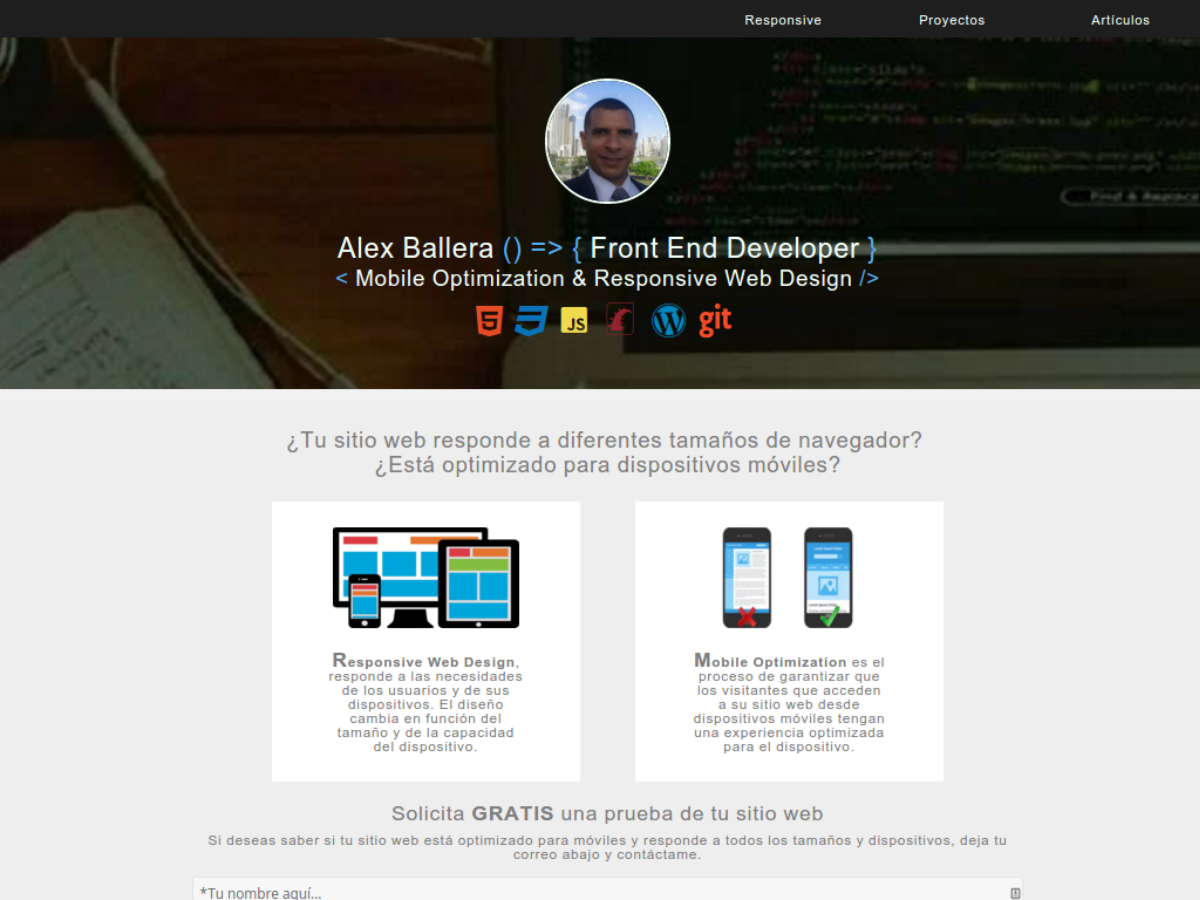
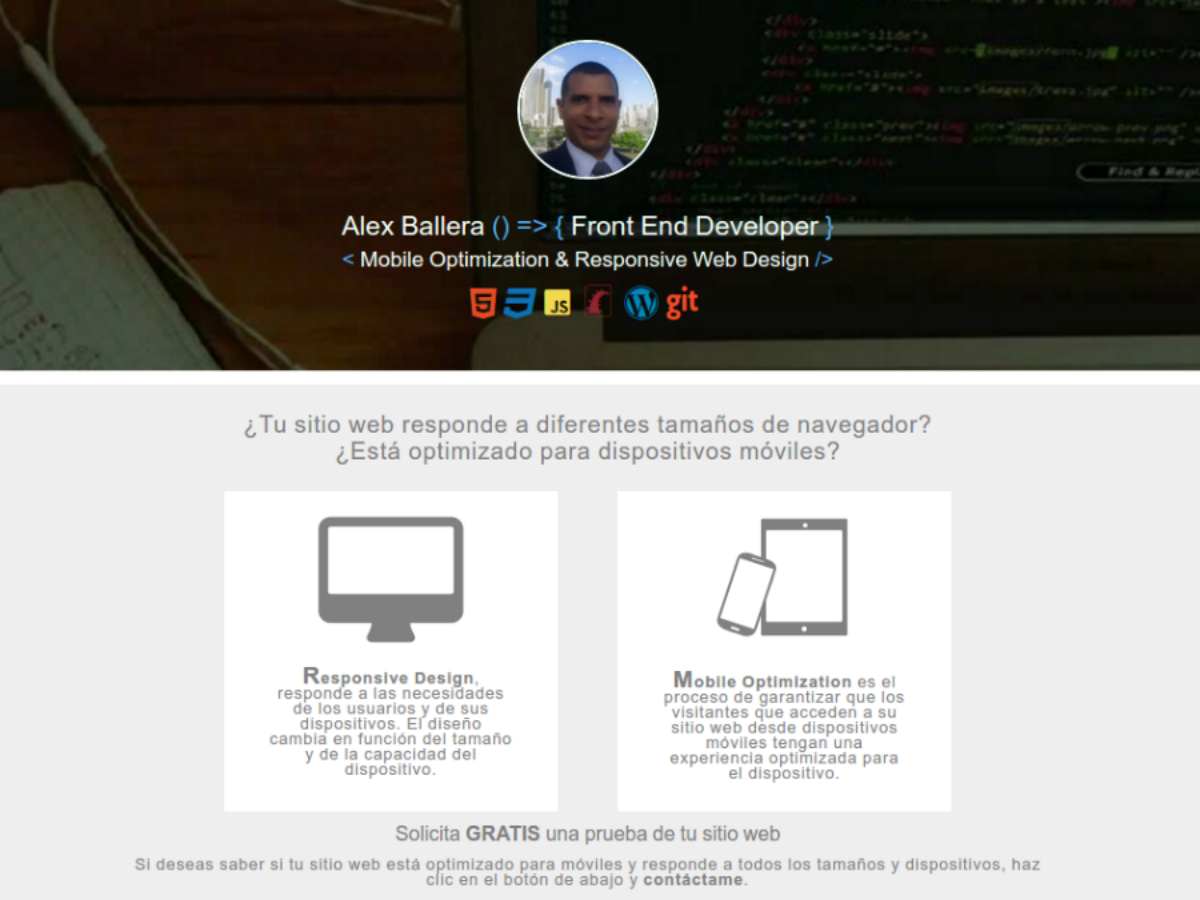
Optimizado tema

diff --git a/gulpfile.js b/gulpfile.js
@@ -140,8 +140,12 @@ gulp.task('clean', (cb) => {
 
 // Copy
 gulp.task('copy', () => {
-  gulp.src(globs.fonts.src + '/**/*.*')
-    .pipe(gulp.dest(globs.fonts.dist))
+  // gulp.src(globs.fonts.src + '/**/*.*')
+  //   .pipe(gulp.dest(globs.fonts.dist))
+  gulp.src(globs.fonts.src + '/fonts-mfizz/**/*.*')
+    .pipe(gulp.dest(globs.fonts.dist + '/fonts-mfizz'))
+  gulp.src(globs.fonts.src + '/fontawesome/**/*.*') // Comentar si se va a usar el cdnjs
+    .pipe(gulp.dest(globs.fonts.dist + '/fontawesome')) // Comentar si se va a usar el cdnjs
   gulp.src(globs.videos.watch)
     .pipe(gulp.dest(globs.videos.dist))
 })

diff --git a/src/styles/scss/partials/_articles.scss b/src/styles/scss/partials/_articles.scss
@@ -65,6 +65,7 @@
                 font-size: 75%;
                 color: grey;
                 margin: 0.5rem;
+                font-family: $font-awesome;
             }
         }
     }

diff --git a/src/styles/scss/partials/_responsive.scss b/src/styles/scss/partials/_responsive.scss
@@ -113,4 +113,5 @@
 .fa.fa-desktop,
 .icon-mobile-device {
   font-size: 10rem;
+  color: grey;
 }

diff --git a/src/front-page.php b/src/front-page.php
@@ -110,7 +110,7 @@
                           <div id="mc_embed_signup" class="form content__responsive--form">
                                 <div class="form__content form__content--purple">
                                   <h2>&#191Te gusta lo que lees? Suscr&#237bete!</h2> 
-                                  <p class="form__content--white">Si quieres recibir de primero mis últimos art&#237culos, s&#243lo tienes que dejar tu nombre y direcci&#243n de correo electr&#243nico <em>aqu&#237</em>.</p>
+                                  <p class="form__content--white">Si quieres recibir de primero mis &#250ltimos art&#237culos, s&#243lo tienes que dejar tu nombre y direcci&#243n de correo electr&#243nico <em>aqu&#237</em>.</p>
                                 </div>
                                 <form action="//alexballera.us8.list-manage.com/subscribe/post?u=8d7312e4347b5791968e24e78&amp;id=d7ed361251" method="post" id="mc-embedded-subscribe-form" name="mc-embedded-subscribe-form" class="validate" target="_blank" novalidate>
                                       <div id="mc_embed_signup_scroll" class="form__email form__purple">

diff --git a/src/footer.php b/src/footer.php
@@ -7,7 +7,7 @@
                 </ul>
             </div>
             <div id="lastArticles" class="footer__content footer__articles">
-                <h3>Últimos art&#237culos</h3>
+                <h3>&#218ltimos art&#237culos</h3>
                 <ul class="ul-articles">
                   <li class="hide">
                     <a href="" target="_blank">
